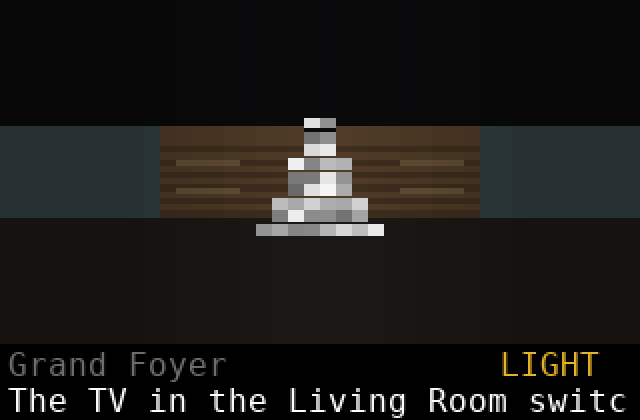
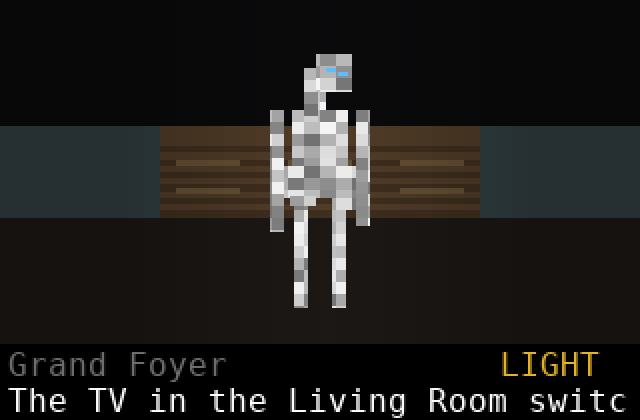
Draw Ysolde with her real shape in the demo
She is now a tall, thin static figure with a small tilted head, long
neck, lank hair, short dress, long arms and small blue eyes. The
Encrypted screenshot on the site shows the new look.

Claude-Session: https://claude.ai/code/session_01ABga3j6ZJ15ibdVoXrUo56

Changed region(s): [[0.375, 0.1238, 0.625, 0.7429]]

diff --git a/calc/GHCRYPT.py b/calc/GHCRYPT.py
@@ -255,20 +255,7 @@ def sprites(g, zb, ca, sa):
                 continue
             x = i * CWID
             if kind == "ys":
-                head = .3 < u < .7
-                for n in range(9):
-                    v0 = n * .1
-                    if n >= 7 and not head:
-                        continue
-                    if n < 7 and abs(u - .5) > .2 + (6 - n) * .045:
-                        continue
-                    gv = random.randint(100, 245)
-                    y0 = int(top + h * (1 - v0 - .1))
-                    if y0 < VH:
-                        rect(x, max(0, y0), CWID, max(2, int(h * .1)), (gv, gv, gv))
-                if head and (.36 < u < .46 or .54 < u < .64):
-                    y0 = int(top + h * (1 - .82))
-                    rect(x, max(0, y0), CWID, max(2, int(h * .03)), (90, 190, 255))
+                ys_column(x, (scol - half) * CWID, 2 * half * CWID, top, h)
                 continue
             for u0, u1, v0, v1, c in SPR[kind][1]:
                 if u0 <= u <= u1:
@@ -287,6 +274,38 @@ def bottom(g, prompt):
     if g.flash:
         text(250, VH + 15, "LIGHT", GOLD)
     text(4, VH + 33, prompt[:31], WHITE)
+
+
+# Ysolde: tall, thin, made of static. Small head tilted hard on a long neck,
+# lank hair, short tattered dress, arms hanging past the knees, small blue eyes.
+YS = ((.40, .45, 0, .40), (.55, .60, 0, .40), (.34, .66, .40, .52), (.38, .48, .37, .41),
+      (.55, .64, .36, .40), (.39, .61, .52, .72), (.30, .35, .28, .72), (.65, .70, .30, .72),
+      (.46, .52, .72, .80), (.44, .49, .68, .88), (.49, .63, .79, .93))
+YEYE = ((.53, .56, .865, .88), (.58, .61, .85, .865))
+
+
+def ys_column(x, left, wid, top, h):
+    x1 = x + CWID
+    for parts, eye in ((YS, False), (YEYE, True)):
+        for u0, u1, v0, v1 in parts:
+            a = max(x, int(left + u0 * wid))
+            b = min(x1, int(left + u1 * wid) + 1)
+            if b - a < 1:
+                continue
+            y0 = int(top + h * (1 - v1))
+            y1 = int(top + h * (1 - v0))
+            if y0 >= VH:
+                continue
+            y1 = min(VH, y1)
+            if eye:
+                rect(a, max(0, y0), b - a, max(2, y1 - y0), (90, 190, 255))
+                continue
+            st = max(3, int(h * .05))
+            y = y0
+            while y < y1:
+                g = random.randint(110, 245)
+                rect(a, max(0, y), b - a, max(1, min(st, y1 - y)), (g, g, g))
+                y += st
 
 
 # ---------- text screens ----------

diff --git a/sim/crypt_shots.py b/sim/crypt_shots.py
@@ -25,6 +25,6 @@ g.note = g.closet = g.living = g.tv = True
 shot(g, '6living', 5.6, 5.5, math.pi)
 shot(g, '7livingtv', 3.5, 4.4, math.pi*0.85)
 shot(g, '8library', 6.5, 2.4, math.pi)
-g.ys_vis = True; g.yx, g.yy = 9.5, 2.5
+g.ys_vis = True; g.yx, g.yy = 9.5, 4.3
 shot(g, '9ysolde', 9.5, 6.0, -math.pi/2)
 shot(g, '10keypad', 12.3, 2.4, 0)
